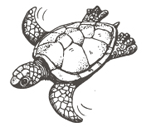
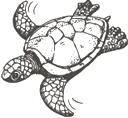
- 13_About_company-history

diff --git a/app/13_About_company-history.html b/app/13_About_company-history.html
@@ -1,0 +1,148 @@
+<!doctype html>
+<html lang="ru">
+<head>
+    <meta charset="UTF-8">
+    <meta name="viewport"
+          content="width=device-width, user-scalable=no, initial-scale=1.0, maximum-scale=1.0, minimum-scale=1.0">
+    <meta http-equiv="X-UA-Compatible" content="ie=edge">
+    <title>Document</title>
+    <link rel="stylesheet" href="styles.css">
+</head>
+<body>
+
+<div class="page">
+    <div class="b-header">
+        <div class="b-header_arrow hide_"><img src="images/arrow_line_left.png"></div>
+        <img class="b-header_leaf" src="images/leaf_white.png">
+        <img class="b-header_logo" src="images/logo_white.png">
+        <a href="01_3-меню.html"><span class="b-header_button on"/></a>
+    </div>
+
+
+    <div class="b-title-turtle">
+        <span class="b-title-turtle_span"></span>
+        <span class="b-title-turtle_text">История компании</span>
+        <img class="b-title-turtle_img" src="images/turtle.png">
+    </div>
+
+
+    <div class="b-company-history">
+
+        <div class="b-blue-fon">История компании</div>
+        <br>
+        <div class="b-blue-fon">"Унистрой" берет свое</div>
+        <br>
+        <div class="b-blue-fon">начало в 1995 году</div>
+        <br>
+
+        <p>
+            <img src="images/years/1996.png">
+            <span>Cоздаётся компания «Промстрой» КПО ВС</span>
+        </p>
+        <p>
+            <img src="images/years/1998.png">
+            <span>«Унистрой» занимает видное место на рынке строительства Республики.</span>
+        </p>
+        <p>
+            <img src="images/years/1999.png">
+            <span>Построен 9-этажный жилой дом в Казани, ул. Космонавтов, 41</span>
+        </p>
+        <p>
+        <img src="images/years/2000.png">
+        <span>Построено 4 объекта</span>
+        </p><p>
+        <img src="images/years/2001.png">
+        <span>Освоено 2000 Га земли</span>
+    </p><p>
+        <img src="images/years/2002.png">
+        <span>Построено 3 объекта</span>
+    </p><p>
+        <img src="images/years/2003.png">
+        <span>Построено 2 объекта  </span>
+    </p><p>
+        <img src="images/years/2004.png">
+        <span>Построено  4 объекта</span>
+    </p><p>
+        <img src="images/years/2005.png">
+        <span>Построено 3 объекта</span>
+    </p><p>
+        <img src="images/years/2006.png">
+        <span>Построено 9 объектов</span>
+    </p><p>
+        <div class="b-blue-fon">В 2006 году "Унистрой"</div>
+        <br>
+        <div class="b-blue-fon">начаинает осваивать</div>
+        <br>
+        <div class="b-blue-fon">рынок коттеджного</div>
+        <br>
+        <div class="b-blue-fon">строительства</div>
+        <br>
+
+        <p>
+            <img src="images/years/2007.png">
+            <span>Построено 7 объектов</span>
+        </p>
+        <p>
+            <img src="images/years/2008.png">
+            <span>Построено 5 объектов</span>
+        </p>
+        <p>
+            <img src="images/years/2009.png">
+            <span>Построено 3 объекта</span>
+        </p>
+        <p>
+            <img src="images/years/2010.png">
+            <span>Построено 3 объекта</span>
+        </p>
+        <p>
+            <img src="images/years/2011.png">
+            <span>Построено 2 объекта</span>
+        </p>
+        <p>
+            <img src="images/years/2012.png">
+            <span>Построено 5 объектов</span>
+        </p>
+        <p>
+            <img src="images/years/2013.png">
+            <span>Построено 5 объектов</span>
+        </p>
+
+        <div class="b-blue-fon">В 2013 году отдел</div>
+        <br>
+        <div class="b-blue-fon">продаж задал новый</div>
+        <br>
+        <div class="b-blue-fon">формат обслуживания</div>
+        <br>
+        <div class="b-blue-fon">клиентов.</div>
+        <br>
+
+        <p>
+            <img src="images/years/2014.png">
+            <span>Построено 8 объектов</span>
+        </p>
+        <p>
+            <img src="images/years/2015.png">
+            <span>Построено 20 объектов</span>
+        </p>
+        <p>
+            <img src="images/years/2016.png">
+            <span>Построено 7 объектов</span>
+        </p>
+    </div>
+
+    <div class="b-trigger2">
+        <div><a href="09_2-online-camera.html"> Онлайн- камеры</a></div>
+        <div>Подобрать квартиру</div>
+    </div>
+
+
+    <img class="b-unistroy" src="images/unistroy.png">
+
+    <div class="b-copyriht">&copy; 2017. Царёво Village</div>
+
+
+</div>
+
+
+</body>
+</html>

diff --git a/app/styles.css b/app/styles.css
@@ -302,6 +302,38 @@ hr {
 
 /*end b-title-bird3*/
 
+/*begin b-title-turtle*/
+.b-title-turtle {
+    position: relative;
+    height: 118px;
+    overflow: hidden;
+}
+
+.b-title-turtle_span {
+    position: absolute;
+    right: 0;
+    top: 25px;
+    background: #fcf560;
+    width: 235px;
+    height: 73px;
+}
+
+.b-title-turtle_img {
+    position: absolute;
+    right: -30px;
+}
+
+.b-title-turtle_text {
+    position: absolute;
+    right: 95px;
+    top: 25px;
+    font-size: 30px;
+    font-family: "Museo Cyrillic Bold", Geneva, Arial, Helvetica, sans-serif;
+    width: 200px;
+}
+
+/*end b-title-turtle*/
+
 /*begin b-title-hedgehog*/
 .b-title-hedgehog {
     position: relative;
@@ -659,7 +691,6 @@ hr {
 .b-infra {
     clear: both;
     margin-bottom: 90px;
-    margin-top: -20px;
 }
 
 .b-infra_div {
@@ -738,3 +769,48 @@ hr {
     border-radius: 38px;
     background: #222;
 }
+
+.b-blue-fon {
+    font-family: Geneva, Arial, Helvetica, sans-serif;
+    font-size: 20px;
+    display: inline-block;
+    background: #b3e3fa;
+    padding: 5px;
+    margin: 2px;
+    padding: 5px 10px 5px 26px;
+    clear: both;
+}
+
+.b-company-history {
+    font-family: Geneva, Arial, Helvetica, sans-serif;
+    font-size: 15px;
+    /*background: #aaaaaa;*/
+}
+
+.b-company-history p {
+    display: flex;
+    align-items: center;
+    margin: 0;
+}
+
+.b-company-history span {
+    padding: 10px;
+}
+
+.b-company-history p:nth-child(odd) img {
+    padding-right: 10px;
+}
+
+.b-company-history p:nth-child(even) img {
+    padding-left: 10px;
+}
+
+.b-company-history p:nth-child(odd) {
+    flex-direction: row;
+}
+
+.b-company-history p:nth-child(even) {
+    flex-direction: row-reverse;
+}
+
+

diff --git a/app/01_3-меню.html b/app/01_3-меню.html
@@ -29,7 +29,7 @@
         <div class="b-menu_lest">
             <a href="11_infrastructure.html">Инфраструктура</a>
             <a href="#">Преимущества Царёво Village</a>
-            <a href="#">О застройщике</a>
+            <a href="13_About_company-history.html">О застройщике</a>
             <a href="06_news.html">Новости</a>
             <a href="09_2-online-camera.html">Онлайн-камеры</a>
             <a href="09_3-history.html">История строительства</a>

diff --git a/app/11_infrastructure.html b/app/11_infrastructure.html
@@ -25,8 +25,6 @@
         <img class="b-title-bird3_img" src="images/bird.png">
     </div>
 
-    <img src="images/icons/infra1.svg" alt="Breaking Borders Logo" height="25" width="28">
-
     <div class="b-infra">
         <div class="b-infra_div">
             <img class="b-infra_img" src="images/pic/i1.png"/>
